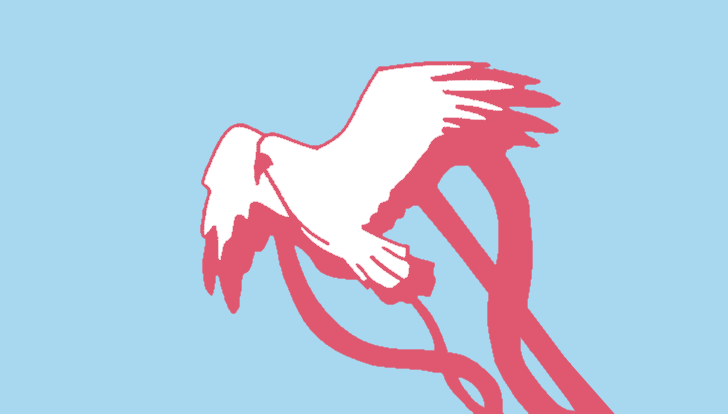
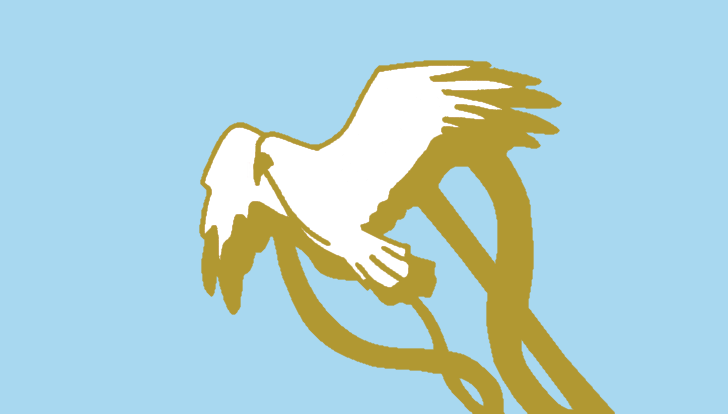
Update text and swap button colors

Changed region(s): [[0.272, 0.1449, 0.8462, 1.0]]

diff --git a/index.html b/index.html
@@ -12,7 +12,7 @@
   <body>
 
   <div class="container">
-    <h1>Hi! My name is <span class="color1">Loic Murumba</span>.</h1>
+    <h1>Hi! My name is <span class="color2">Loic Murumba</span>.</h1>
     <div class="row">
       <div class="col-sm-5 col-sm-push-7">
         <div class="profile">
@@ -20,40 +20,36 @@
       </div>
       <div class="col-sm-7 col-sm-pull-5">
         <p class="intro">
-          I'm a computer engineering student at the University
+          I'm a computer science student at the University
           of Waterloo and I have a passion for software development.
         </br></br>
-          I'm currently working as a full-stack developer for <a href="http://mitremedia.com/" class="color2 text-link">Mitre Media</a>.
-          In my spare time, I've been creating a 3D simulation for Waterloo's <a href="https://teamwaterloop.ca/" class="color2 text-link">
-          hyperloop team</a> and developing the website for our <a href="http://uwmidsun.com/" class="color2 text-link">solar car team</a>. 
-          I'm also organizing an upcoming <a href="https://starterhacks.ca/" class="color2 text-link">hackathon</a>!
+          Interested in an internship opportunities in Winter 2019. Previously worked at  <a href="http://google.com/" class="text-link">Google</a> and 
+          <a href="http://mitremedia.com/" class="text-link">Mitre Media</a>.In my spare time, I've been creating a 3D simulation for Waterloo's <a href="https://teamwaterloop.ca/" class="text-link">
+          hyperloop team</a> and developing the website for our <a href="http://uwmidsun.com/" class="text-link">solar car team</a>. 
+          I'm also organizing an upcoming <a href="https://starterhacks.ca/" class="text-link">hackathon</a>!
         </p>
         <a class="button" href="loicmurumba_resume.pdf">VIEW RESUME
         </a>
+
+        <h3 class="contact-header"> Contact me </h3>
+        <div class="contact-links">
+          <a href="https://github.com/loicmurumba" class="contact-icon">
+            <i class="fa fa-github"></i>
+          </a>
+          <a href="https://www.linkedin.com/in/loicmurumba/" class="contact-icon">
+            <i class="fa fa-linkedin"></i>
+          </a>
+          <a href="mailto:'muruloic@gmail.com'" class="contact-icon">
+            <i class="fa fa-envelope"></i>
+          </a>
+          <a href="https://plus.google.com/u/1/116258112493983911499" class="contact-icon">
+              <i class="fa fa-google-plus"></i>
+           </a>
+        </div>
       </div>
     </div>
-    <h3 class="contact-header"> Contact me </h3>
-    <div class="contact-links">
-      <!-- <a href="" class="contact-icon">
-          <i class="fa fa-file-text"></i>
-      </a> -->
-      <a href="https://github.com/loicmurumba" class="contact-icon">
-        <i class="fa fa-github"></i>
-      </a>
-      <a href="https://www.linkedin.com/in/loicmurumba/" class="contact-icon">
-        <i class="fa fa-linkedin"></i>
-      </a>
-      <a href="mailto:'muruloic@gmail.com'" class="contact-icon">
-        <i class="fa fa-envelope"></i>
-      </a>
-      <a href="https://plus.google.com/u/1/116258112493983911499" class="contact-icon">
-          <i class="fa fa-google-plus"></i>
-       </a>
-    </div>
-    <h2 class="h1"> Projects I've worked on</h2>
+    <h2 class="h1">Relevant Projects</h2>
     <div class="row cards-container">
-
-     
         <div class="col-md-4">
           <div class = "proj-card">
               <a href="foodfeed.html">
@@ -84,10 +80,7 @@
           </a>
         </div>  
       </div>
-    
-      
-        <div class="col-md-4">
-           
+        <div class="col-md-4"> 
           <div class = "proj-card">  
               <a href="platformer.html">
             <img src="images/platformer.png" class="proj-thumb"alt=""/>
@@ -119,7 +112,6 @@
               </a>
             </div>  
         </div>
-
       </div>
     </div>
   </div>

diff --git a/css/style.css b/css/style.css
@@ -8,35 +8,37 @@
   height: 300px;
   width: 300px;
   border-radius:100%; 
-  background: url('../images/profile_.jpg');
+  background: url('../images/profile2.jpg');
   background-position: center;
   background-size: cover;
   margin: 10px auto;
-  border: 1px solid rgb(168,216,240);
+  border: 1px solid rgb(175, 170, 59);
 }
-.color1, .text-link:hover, .in-progress, .contact-icon:hover{
+.color1, .text-link, .in-progress, .contact-icon{
   color: rgb(168,216,240);
 }
-.color2, .contact-icon, .proj-card:hover h5{
-  color: rgb(224, 87, 112);
+.color2, .contact-icon:hover, .proj-card:hover h5, .text-link:hover{
+  color: rgb(175, 170, 59);
 }
 .button{
-  margin-top:30px;
   padding: 15px;
   font-size: 18px;
   text-decoration: none;
-  background-color: rgb(168,216,240);
+  background-color: rgb(175, 170, 59);  
   color: white;
   border-radius: 3px;
   transition: background-color .3s ease-in-out;
 }
+.button, .contact-header{
+  margin-top:30px;
+}
 .button:hover{
-  background-color: rgb(224, 87, 112);
+  background-color: rgb(168,216,240);
   color: white;
 }
 .proj-card:hover{ 
   box-shadow: 0 14px 24px rgba(0, 0, 0, 0.25), 0 10px 10px rgba(0, 0, 0, 0.22);
-  border: 3px solid rgba(224, 87, 112, 0.8);
+  border: 3px solid rgb(244, 236, 78, 0.8);
   transform: scale(1);
 }
 img.img-frame{
@@ -112,9 +114,6 @@ h1{
   margin-right: 10px;
   transition: color .3s ease-in-out;
 }
-a:visited, a:active, div > a:hover, .contact-icon:hover{
+a:visited, a:active, div > a:hover, .contact-icon:hover, a:hover{
   text-decoration: none;
-}
-.contact-links{
-  margin-bottom: 30px;
 }
